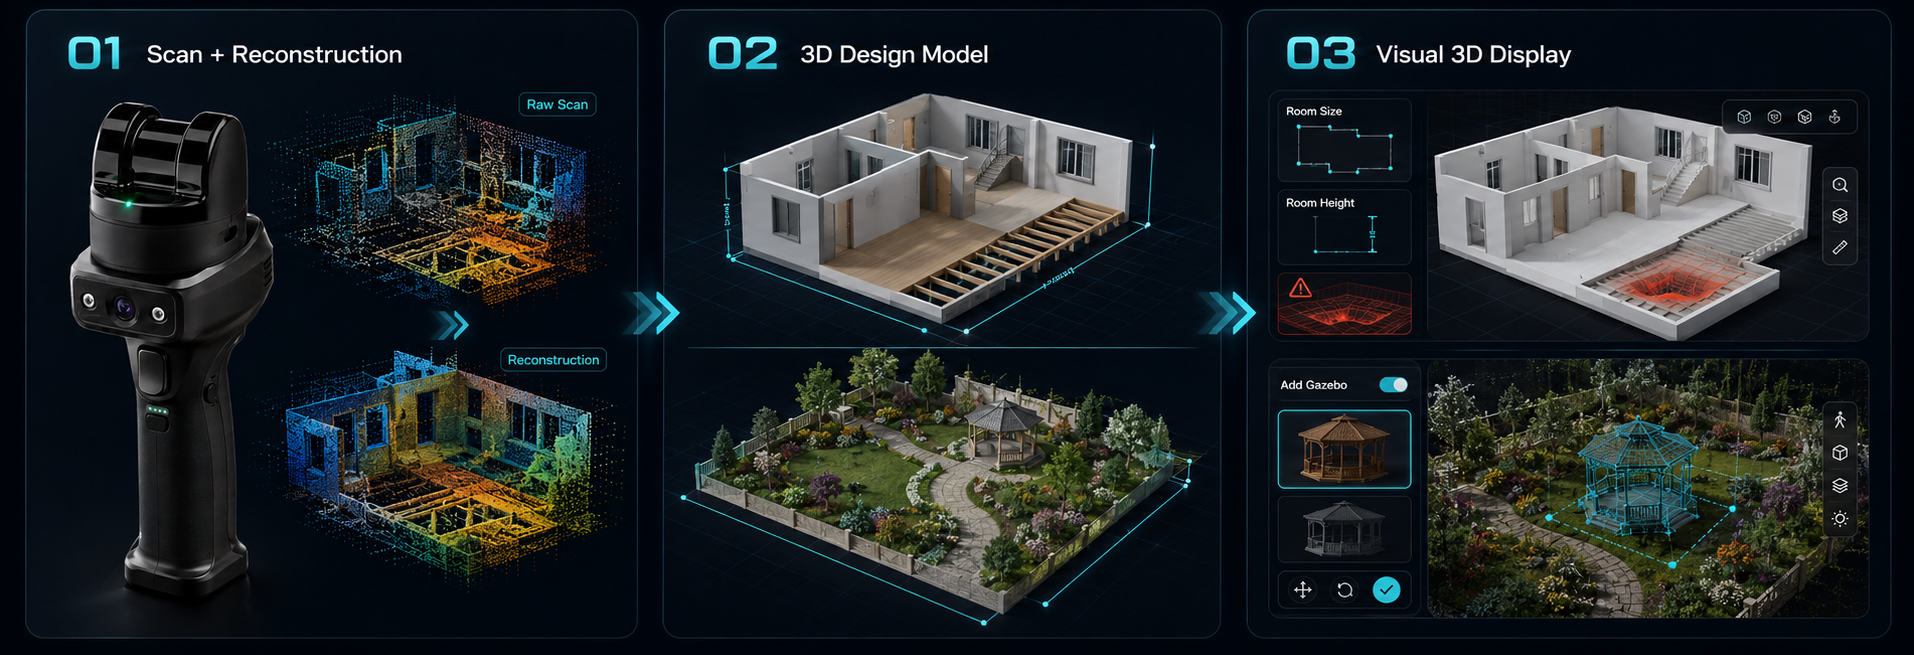
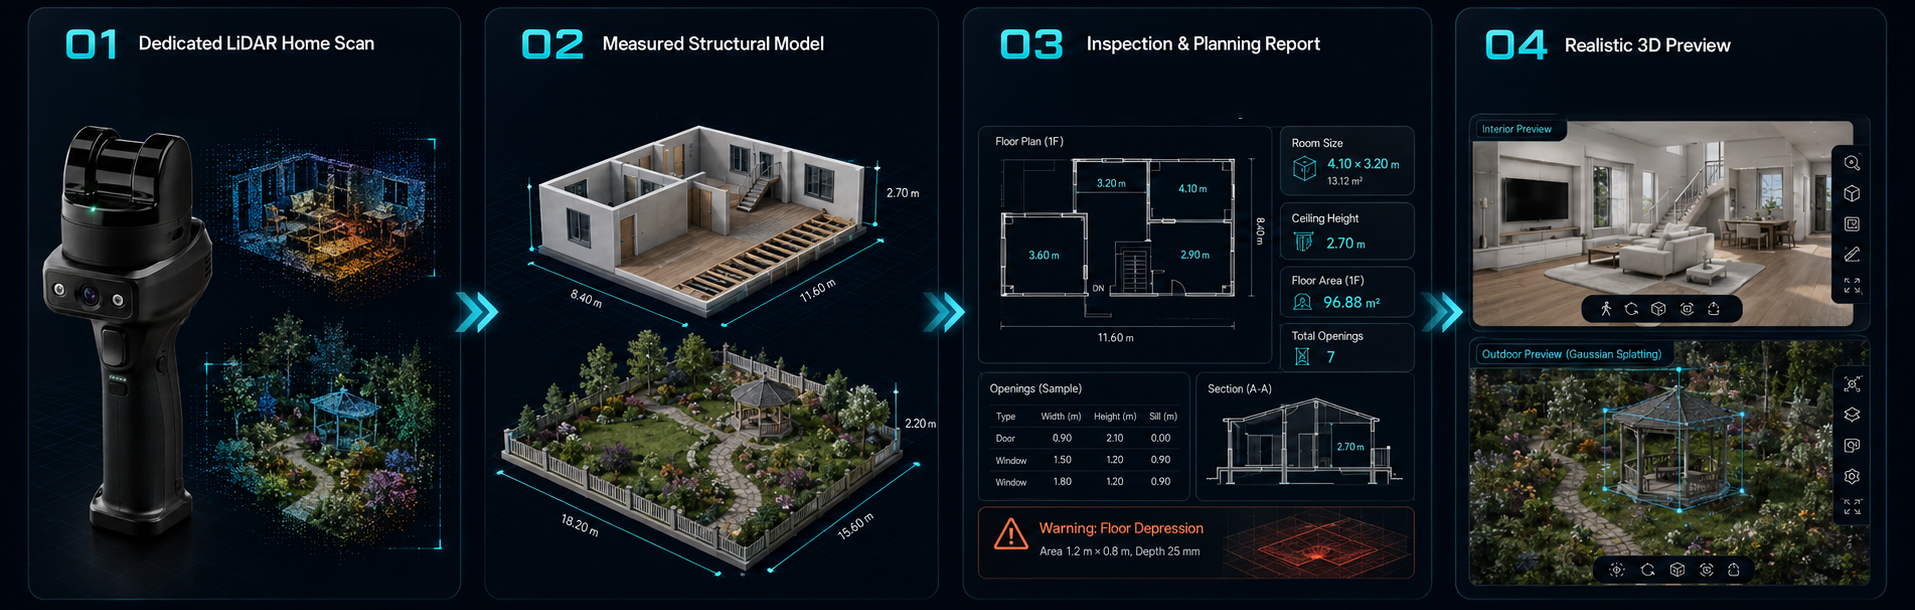
update

diff --git a/assets/css/uniscanner.css b/assets/css/uniscanner.css
@@ -287,7 +287,7 @@ html {
   line-height: 1.6;
 }
 .us-workflow-diagram {
-  max-width: 1180px;
+  max-width: 1500px;
   margin: 2.5rem auto 0;
   background: var(--mm-surface);
   border: 1px solid var(--mm-border);
@@ -299,7 +299,7 @@ html {
   display: block;
   width: 100%;
   height: auto;
-  aspect-ratio: 1914 / 655;
+  aspect-ratio: 1915 / 610;
   object-fit: contain;
   border-radius: var(--mm-radius-sm);
 }

diff --git a/uniscanner.md b/uniscanner.md
@@ -79,17 +79,7 @@ css:
       <p>The colored point cloud and camera trajectory can further train a Gaussian Splatting scene for immersive, browsable 3D.</p>
     </div>
   </div>
-  <div class="us-workflow-diagram">
-    <img src="{{ '/assets/img/uniscanner/how-it-works.png' | relative_url }}" alt="Diagram of the UniScanner pipeline: scan and reconstruction produce a raw colored point cloud, which is simplified into a 3D design model of the room and garden, then displayed in 3D with measurement, inspection, and design annotations" loading="lazy">
-  </div>
-</section>
-
-
-<section class="mm-section mm-section--muted">
-  <div class="mm-section__head">
-    <p class="mm-eyebrow">Real Results</p>
-    <h2 class="mm-section__title">Not a Render — Real Scans</h2>
-  </div>
+  <p></p>
   <div class="mm-sector__media mm-sector__media--gallery us-results-grid">
     <figure class="mm-sector__figure">
       <video class="mm-sector__video us-autoplay-video" controls muted loop playsinline preload="none" poster="{{ '/assets/videos/posters/color_mapping_1.jpg' | relative_url }}">
@@ -134,6 +124,68 @@ css:
     videos.forEach(function (video) { observer.observe(video); });
   })();
 </script>
+
+<section class="mm-section mm-section--dark">
+  <div class="mm-section__head">
+    <p class="mm-eyebrow">Product Direction</p>
+    <h2 class="mm-section__title">
+      A Hardware-Assisted Upgrade to 3D Scanning
+    </h2>
+    <p class="mm-section__desc">
+      Our direction is to go one step further:
+      use a dedicated LiDAR + RGB capture device to create higher-confidence geometry,
+      cleaner structural models, professional reports, and realistic 3D previews for
+      renovation, property records, and outdoor planning.
+    </p>
+  </div>
+
+  <div class="us-workflow">
+    <div class="us-workflow__step">
+      <p class="us-workflow__num">01</p>
+      <h3>Dedicated LiDAR Home Scan</h3>
+      <p>
+        Scan rooms, apartments, houses, gardens, and renovation sites with a handheld
+        LiDAR + RGB device. Compared with phone-only scanning, the goal is more reliable
+        geometry, better scale consistency, and stronger support for larger or more complex
+        spaces.
+      </p>
+    </div>
+
+    <div class="us-workflow__step">
+      <p class="us-workflow__num">02</p>
+      <h3>Measured Structural Model</h3>
+      <p>
+        The scan is converted into a simplified 3D design model with auto-detected walls,
+        floors, ceilings, doors, windows, openings, stairs, and key outdoor elements such
+        as paths, plants, fences, and gazebos.
+      </p>
+    </div>
+
+    <div class="us-workflow__step">
+      <p class="us-workflow__num">03</p>
+      <h3>Inspection & Planning Report</h3>
+      <p>
+        Generate a practical report for renovation and communication: room size, ceiling
+        height, floor area, opening dimensions, structural annotations, before / after
+        comparison, and warnings such as uneven floor or floor depression.
+      </p>
+    </div>
+
+    <div class="us-workflow__step">
+      <p class="us-workflow__num">04</p>
+      <h3>Realistic 3D Preview</h3>
+      <p>
+        Beyond the measured model, RGB images and trajectory can produce a realistic
+        Gaussian Splatting scene. Users can preview furniture, renovation effects, or
+        outdoor additions such as a virtual gazebo directly inside a browsable 3D scene.
+      </p>
+    </div>
+  </div>
+  <div class="us-workflow-diagram">
+    <img src="{{ '/assets/img/uniscanner/how-it-works.png' | relative_url }}" alt="Diagram showing a dedicated LiDAR home scan converted into a measured structural model, an inspection and planning report with floor plan and dimensions, and a realistic 3D preview of the interior and outdoor Gaussian Splatting scene" loading="lazy">
+  </div>
+</section>
+
 
 <section class="mm-section">
   <div class="mm-section__head">
@@ -258,8 +310,7 @@ css:
     <h2 class="us-survey-card__title">Join Early Access</h2>
     <p class="us-survey-card__desc">Thinking of buying one, or just curious? A 2-minute survey helps us prioritize what to build next — early respondents get first access when we ship.</p>
     <div class="mm-hero__ctas us-survey-ctas">
-      <a href="https://deepmirror.sg.larksuite.com/share/base/form/shrlgiBYUPgo5PODDczFLXnTHPe" class="mm-btn mm-btn--primary us-survey-btn" target="_blank" rel="noopener">Join Early Access — English ↗</a>
-      <a href="https://deepmirror.sg.larksuite.com/share/base/form/shrlgL9xhLq2B0k2J0YleeGqvCg" class="mm-btn mm-btn--ghost us-survey-btn" target="_blank" rel="noopener">加入抢先体验 — 中文 ↗</a>
+      <a href="https://deepmirror.sg.larksuite.com/share/base/form/shrlgiBYUPgo5PODDczFLXnTHPe" class="mm-btn mm-btn--primary us-survey-btn" target="_blank" rel="noopener">Join Early Access ↗</a>
     </div>
   </div>
 </section>